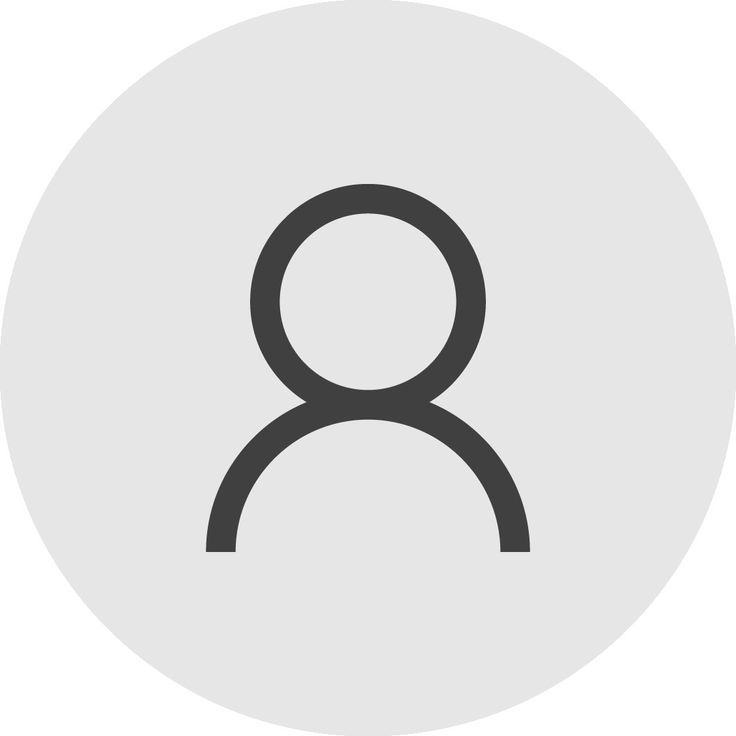
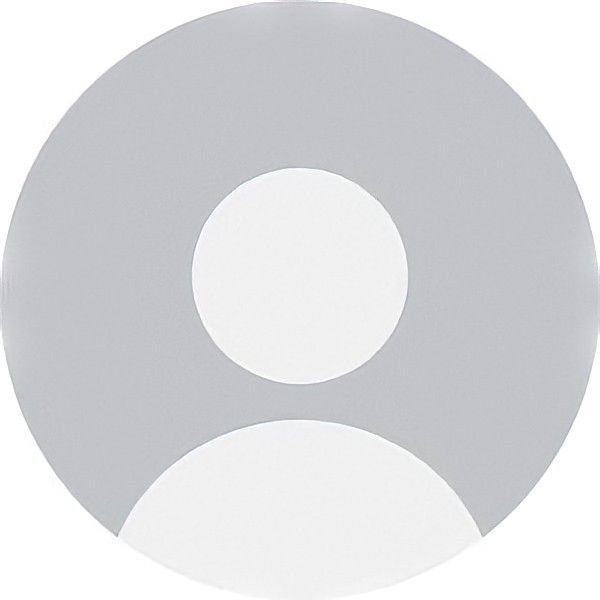
sigh

diff --git a/app/templates/imposter.html b/app/templates/imposter.html
@@ -40,7 +40,7 @@
             event.preventDefault();
             event.returnValue = '';
           }
-          
+
       });
 
       if (player == "1"){
@@ -79,7 +79,7 @@
         inputLog = inputLog.concat(": ");
         inputLog = inputLog.concat(temp);
         inputLog = inputLog.concat("\\");
-        
+
         socket.emit("input", {{ g_id }}, String(inputLog));
         var current = parseInt("{{ playerN }}", 10)
         if (player == playerM){
@@ -93,7 +93,7 @@
       </script>
     <div onmousedown="mouseDown(word)" class="card" style="width: 18rem; margin-right: auto; margin-left: auto; margin-bottom: 10vh;">
       <div class="card-body">
-        <h5 class="card-title">Category: {{ category }}</h5>
+        <h5 class="card-title">Category: {{ category }} (Hold To Show)</h5>
         <p id="role" class="card-text"></p>
       </div>
     </div>
@@ -117,27 +117,34 @@
           </div>`;
         };
       </script>
-      <div style="margin:auto;"><ul id="vote" class="list-group list-group-flush" style="margin: auto; list-style-type: none;"></ul></div>
+      <div class="card" style="width: 18rem; margin: auto;">
+        <div class="card" style="width: 18rem;">
+          <div class="card-header" style="text-align: center;">
+            Who's Suspicious?
+          </div>
+          <div style="margin:auto;"><ul id="vote" class="list-group list-group-flush" style="margin: auto; list-style-type: none;"></ul></div>
+        </div>
+      </div>
       <script>
         function vote(player){
           if (!confirmed){
             if (sus == 1){onesus -= 1;}
             else if (sus == 2){twosus -= 1;}
             else if (sus == 3){threesus -= 1;}
-            else if (sus == 4){foursus -= 1;} 
+            else if (sus == 4){foursus -= 1;}
 
             if (player == "1"){
               sus = 1;
               onesus += 1;
-            } 
+            }
             else if (player == "2"){
               sus = 2;
               twosus += 1;
-            } 
+            }
             else if (player == "3"){
               sus = 3;
               threesus += 1;
-            } 
+            }
             else if (player == "4"){
               sus = 4;
               foursus += 1;
@@ -189,11 +196,11 @@
             socket.emit("gameEnd", {{ g_id }}, Boolean(bleh))
           }
         }
-        
+
         function home(){
           window.location.href = '/';
         };
-        
+
         socket.on('gameEnd', function(imp){
           if (imp){
             document.getElementById("all").innerHTML = `<div class="d-flex align-items-center justify-content-center" style="font-weight: bold; font-size: larger; flex-direction: column; height: 100vh;">

diff --git a/app/templates/home.html b/app/templates/home.html
@@ -31,7 +31,7 @@
     </style>
 
   <body>
-    
+
     <div class="d-flex align-items-center justify-content-center" style="flex-direction: column; height: 100vh;">
       <div>
         <form>
@@ -40,10 +40,11 @@
       </div>
       <div>
         <h1>Hello, {{ user }}!</h1>
+        <p>Wins: {{ wins }} Losses: {{ losses }}</p>
       </div>
       <div>
         <form style="text-align: center" method='POST' action="/">
-          <input style="text-align: center" class="width: 200px; height: 70px;" type="number" name="join code" required> 
+          <input style="text-align: center" class="width: 200px; height: 70px;" type="number" name="join code" required>
         </br>
           <button class="btn btn-primary custom-button" type="submit" name="join" id="join"> Join </button>
         </form>
@@ -51,6 +52,12 @@
         <form action="/create">
           <button class="btn btn-primary custom-button" type="submit" value="Host"> Host </button>
         </form>
+        </br>
+        {% if  inn %}
+        <form action="/logout">
+          <button class="btn btn-primary custom-button" type="submit"> Logout </button>
+        </form>
+        {% endif %}
       </div>
     </div>
 

diff --git a/app/__init__.py b/app/__init__.py
@@ -15,13 +15,20 @@ initiate_data()
 def home():
     if request.method == 'POST':
         if "join" in request.form:
+            if 'u_name' not in session:
+                return redirect("/login")
             return redirect(f"/lobby/{request.form['join code']}")
     if 'u_name' in session:
-        return render_template("home.html", user=session["u_name"], party="/profile", image="../static/pfp.png")
-    return render_template("home.html", user="guest", party="/login", image="https://external-content.duckduckgo.com/iu/?u=https%3A%2F%2Fi.pinimg.com%2F474x%2Fae%2Fae%2F25%2Faeae25799b8763a924f5001c6297cf0e.jpg%3Fnii%3Dt&f=1&nofb=1&ipt=a463127ae3c71405a6bcaa6f8b2606c9fd3b859de74153d86a5c9dc2770e3e37")
+        user = "'" + session['u_name'] + "'"
+        wins = fetch("players", f"username={user}", "wins")[0][0]
+        losses = fetch("players", f"username={user}", "losses")[0][0]
+        return render_template("home.html", user=session["u_name"], party="/", image="../static/pfp.png", wins=wins, losses=losses, inn=True)
+    return render_template("home.html", user="guest", party="/login", image="../static/defaultpfp.jpg", wins="N/A", losses="N/A", inn=False)
 
 @app.route('/create', methods=["GET", "POST"])
 def create_game():
+    if 'u_name' not in session:
+        return redirect("/login")
     g_id = random.randint(0, 9999)
     while (len(fetch("games", f"serverid={g_id}", "*")) != 0):
         g_id = random.randint(0, 9999)
@@ -60,15 +67,24 @@ def game(g_id):
         elif two == session["u_name"]: playerN = 2
         elif three == session["u_name"]: playerN = 3
         elif four == session["u_name"]: playerN = 4
-    
+    else:
+        return redirect("/")
     if request.method == 'POST':
         if exists("games", f"serverid={g_id}"):
             remove_game(str(g_id))
             if request.get_json()["imp"]:
+                if imp == session["u_name"]:
+                    updateStat(session["u_name"], True)
+                else:
+                    updateStat(session["u_name"], False)
                 return jsonify({
                     'success': True,
                 }), 200
             else:
+                if imp == session["u_name"]:
+                    updateStat(session["u_name"], False)
+                else:
+                    updateStat(session["u_name"], True)
                 return jsonify({
                     'success': True,
                 }), 200
@@ -118,10 +134,6 @@ def login():
     session.clear()
 
     return render_template("login.html")
-
-@app.route('/profile', methods=["GET", "POST"])
-def profile():
-    return render_template("profile.html")
 
 @app.route('/logout', methods=["GET", "POST"])
 def logout():

diff --git a/app/utility.py b/app/utility.py
@@ -94,6 +94,19 @@ def imposter(user, g_id):
     db.commit()
     db.close()
 
+def updateStat(user, win):
+    print("adsgkjhfdsgjdagkjlghfda")
+    db = sqlite3.connect(DB_FILE)
+    c = db.cursor()
+    if (win):
+        wins = fetch("players", f"username={user}", "wins")
+        c.execute("UPDATE players SET wins = ? WHERE username = ?", (wins, user))
+    else:
+        losses = fetch("players", f"username={user}", "losses")
+        c.execute("UPDATE players SET losses = ? WHERE username = ?", (losses, user))
+    db.commit()
+    db.close()
+
 def add_game(g_id, p_id):
     db = sqlite3.connect(DB_FILE)
     c = db.cursor()
